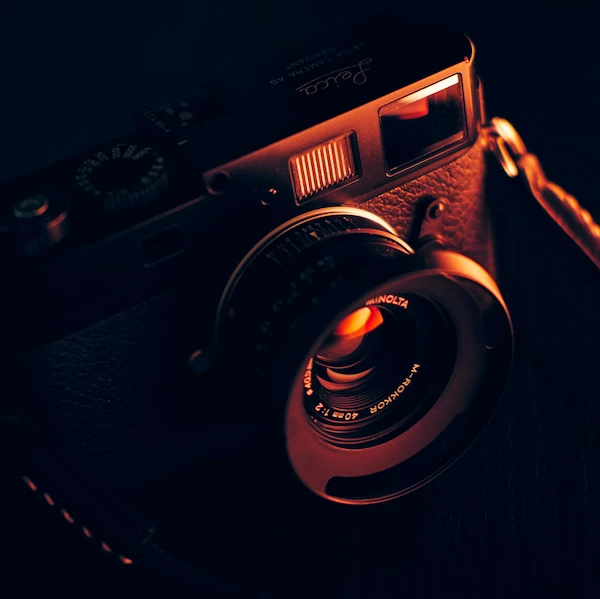
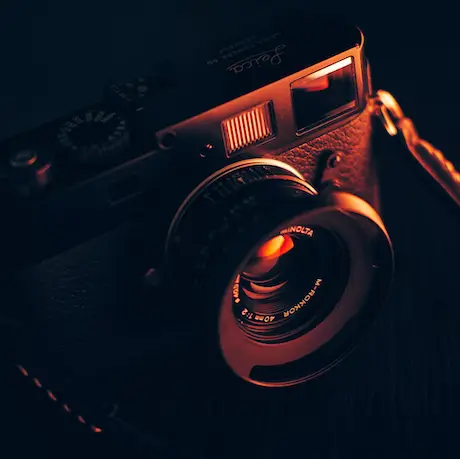
Optimisation part 8
Réduction taille des images

diff --git a/index.html b/index.html
@@ -68,7 +68,7 @@
 			<li><a href="#services">Service</a></li>
 			<li><a href="#contact">Contact</a></li>
 			<li><a class="social-link" href="https://www.instagram.com/ninacarducci.photo/?hl=fr" target="_blank"><img
-						src="assets/images/instagram.png" alt="logo instagram" width="20" height="20"></a></li>
+						src="assets/images/instagram.webp" alt="logo instagram" width="20" height="20"></a></li>
 		</ul>
 	</div>
 </nav>
